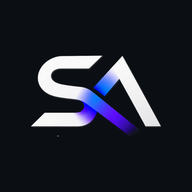
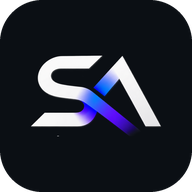
fix: 404'te "Kritik hata" yazısı, site ikonu yuvarlak köşeli

diff --git a/404.html b/404.html
@@ -271,7 +271,7 @@
     <div class="report" role="img" aria-label="Kampanya raporu: gösterim 0, tıklama 1, dönüşüm yüzde 0">
       <div class="report-head">
         <code id="path">/bu-sayfa</code>
-        <span class="status">Reklam seti durduruldu</span>
+        <span class="status">Kritik hata</span>
       </div>
       <div class="metrics">
         <div class="metric"><span>Gösterim</span><strong>0</strong></div>

diff --git a/CLAUDE.md b/CLAUDE.md
@@ -108,7 +108,8 @@ Bölüm zeminleri sırayla düz / `alt` değişir; bölüm eklerken sıralamayı
   `?v=dev` commit kodu ile değiştirilir, böylece her yayında önbellek atlanır.
   **İstisna:** site ikonları (`favicon.ico`, `images/icon-192.png`, `images/apple-touch-icon.png`)
   sabit adreste, `?v=` yok — Google arama sonucundaki logo sabit adres ve 48'in katı kare ikon
-  ister. Koyu zemin (#0b0f14) üzerine SA amblemi; `logo.png`'den Pillow ile üretildi (2026-09-30).
+  ister. Koyu zemin (#0b0f14) üzerine SA amblemi, `favicon.ico` ve `icon-192.png` yuvarlak köşeli
+  (%22, köşe dışı şeffaf; apple-touch-icon kare çünkü iOS kendi yuvarlar); `logo.png`'den Pillow ile üretildi (2026-09-30).
 - Deploy önce diğer dosyaları, `index.html`'i **en son** yükler (ayrı adım, curl ile). Yayın
   sırasında yeni `?v=` adresli CSS/PDF'e istek atma: yarım dosya Cloudflare'de 7 gün kalır
   (2026-09-30'da oldu). Canlı kontrolü `index.html` yeni `?v=` kodunu gösterdikten sonra yap.
